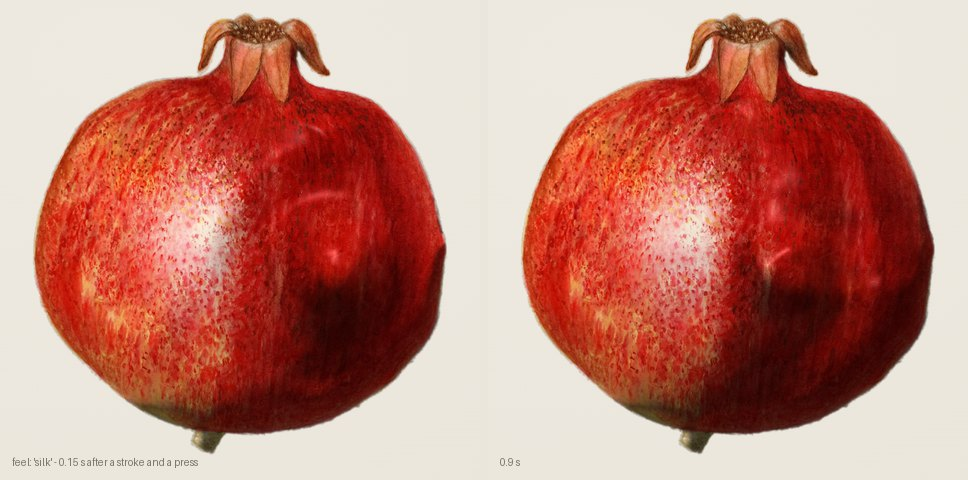
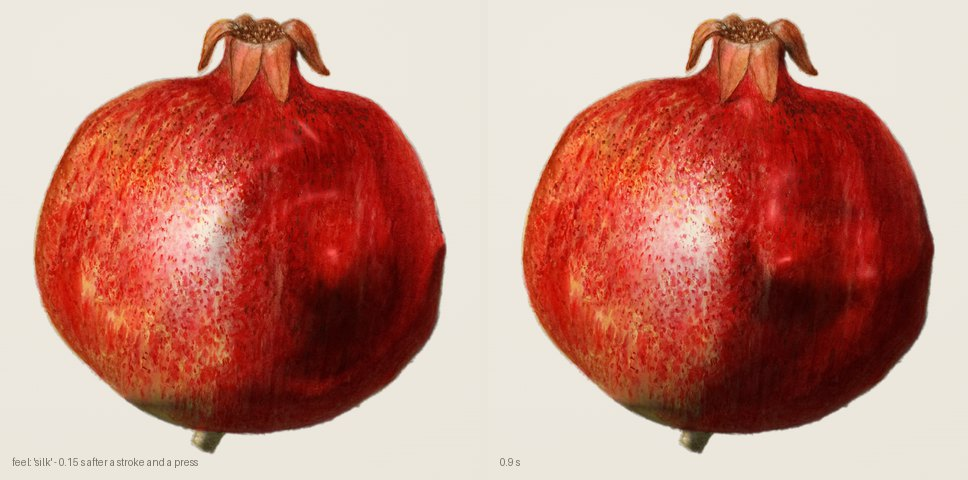
Presets: every material reads as itself before anyone touches it
foil, velvet and paper looked like the default at rest; satin and ink only
differed once touched. The test for a material is now its rest state.

- Three new options, all off by default (the classic look is bit-for-bit
  unchanged, checked pixel by pixel against the previous commit):
  metallic tints the highlight with the body's own hue and takes diffuse
  light from the silk part; threads is a fixed relief of fine striations
  along anisotropyAngle that only the highlight sees, so it breaks into
  streaks along the threads even at rest; grainScale sets device pixels per
  grain speck, and grain above 1 now adds contrast.
- foil: metal at rest, a body-coloured band of streaks. velvet: dark body,
  edges glowing in their own colour. paper: no sheen, flat warm frontal
  light, coarse tooth. satin: silkRest 0.6, a broad sheen band at rest.
  ink: deeper floor, so the far side falls into hard shadow.
- shoot.mjs --lab also writes material-rest-strip.jpg, all seven untouched.
- Pomegranate-foil poster re-rendered; the other nine are untouched.

diff --git a/src/shaders.js b/src/shaders.js
@@ -8,7 +8,11 @@
  *                         (ripple(), autoplay) and the breeze's drifting noise mixed in
  *   OBJ_VERT / OBJ_FRAG   the object: height field → displacement and normals → albedo × Lommel–Seeliger ×
  *                         light colour → fill-light gradient → satin and sheen gated by ripple energy (or
- *                         silkRest), the sheen optionally anisotropic and iridescent → Fresnel rim
+ *                         silkRest), the sheen optionally anisotropic, iridescent, metallic (tinted by the body)
+ *                         and streaked by a fixed thread relief (threads) → Fresnel rim
+ *
+ * The thread relief and the metallic tint only touch the silk layer (the sheen sees a perturbed normal Ns; the
+ * matte photograph and the satin overlay keep N), so a material can read as foil at rest without the picture itself going noisy.
  *
  * Every uniform here is set by core.js (`apply()` for options, `tick()` for per-frame state). Each optional term
  * sits behind `if (uniform > 0.0)`, so with the defaults the output is bit-for-bit the classic look.
@@ -99,7 +103,7 @@ export const OBJ_FRAG = /* glsl */ `
   uniform vec3 uSatinDir, uSunDir, uVolDir, uTint, uLightColor, uSheenColor, uRimColor;
   uniform vec2 uAnisoDir;          // (cos, sin) of the thread direction in the tangent plane
   uniform float uRipple, uSlope, uSatin, uFloor, uExposure, uGamma, uVolume, uSheen, uSheenPow, uTintMix, uGrainAmt, uGrainSize;
-  uniform float uAnisotropy, uRim, uRimPower, uRimSelf, uIridescence, uSilkRest, uSilkSpread;
+  uniform float uAnisotropy, uRim, uRimPower, uRimSelf, uIridescence, uSilkRest, uSilkSpread, uThreads, uMetallic;
 #ifdef SPHERE
   uniform sampler2D uBump;
   uniform float uAngle, uBumpTexel, uBumpStrength;
@@ -109,6 +113,12 @@ export const OBJ_FRAG = /* glsl */ `
   float blendOverlay(float b, float s) { return b < 0.5 ? (2.0 * b * s) : (1.0 - 2.0 * (1.0 - b) * (1.0 - s)); }
   vec3 blendOverlay(vec3 b, vec3 s) { return vec3(blendOverlay(b.r, s.r), blendOverlay(b.g, s.g), blendOverlay(b.b, s.b)); }
   vec3 hue(float h) { return clamp(abs(fract(h + vec3(0.0, 2.0 / 3.0, 1.0 / 3.0)) * 6.0 - 3.0) - 1.0, 0.0, 1.0); }
+  float hash(vec2 p) { return fract(sin(dot(p, vec2(127.1, 311.7))) * 43758.5453); }
+  float vnoise(vec2 p) {
+    vec2 i = floor(p), f = fract(p);
+    f = f * f * (3.0 - 2.0 * f);
+    return mix(mix(hash(i), hash(i + vec2(1.0, 0.0)), f.x), mix(hash(i + vec2(0.0, 1.0)), hash(i + 1.0), f.x), f.y);
+  }
 
   void main() {
   #ifdef SPHERE
@@ -164,25 +174,43 @@ export const OBJ_FRAG = /* glsl */ `
     float silkLit = silk * dayT;
     float satin = mix(0.5, max(dot(N, uSatinDir), 0.0), 0.45);
     col = mix(col, blendOverlay(col, vec3(satin)), silkLit * uSatin);
-    float spec = pow(max(dot(viewDir, reflect(-uSatinDir, N)), 0.0), uSheenPow);
+    // the thread direction in view space. Image: the tangent plane is xy. Sphere: the texture's u direction,
+    // (n.z, 0, −n.x) for a sphere about the view-space y axis
+  #ifdef SPHERE
+    vec3 tu = normalize(vec3(geoN.z, 0.0, -geoN.x) + vec3(1e-4, 0.0, 0.0));
+    vec3 t0 = tu * uAnisoDir.x + cross(geoN, tu) * uAnisoDir.y;
+    vec2 tuv = vec2(auv.x * 2.0, auv.y);                 // the map is 2:1, so its threads are square on the sphere
+  #else
+    vec3 t0 = vec3(uAnisoDir, 0.0);
+    vec2 tuv = vUv;
+  #endif
+    // the normal the silk layer sees; threads give it a fixed relief of fine striations running along the
+    // thread direction, so the highlight breaks into streaks along them even where nothing ripples (brushed foil)
+    vec3 Ns = N;
+    if (uThreads > 0.0) {
+      vec2 st = vec2(dot(tuv, vec2(-uAnisoDir.y, uAnisoDir.x)) * 300.0, dot(tuv, uAnisoDir) * 10.0);
+      float n0 = vnoise(st) + 0.5 * vnoise(st * vec2(2.7, 1.9) + 17.0);
+      float n1 = vnoise(st + vec2(0.35, 0.0)) + 0.5 * vnoise((st + vec2(0.35, 0.0)) * vec2(2.7, 1.9) + 17.0);
+      Ns = normalize(N + cross(geoN, t0) * (n1 - n0) * 1.8 * uThreads);
+    }
+    float spec = pow(max(dot(viewDir, reflect(-uSatinDir, Ns)), 0.0), uSheenPow);
     if (uAnisotropy > 0.0) {
-      // Kajiya–Kay: the highlight stretches across the threads. Image: the tangent plane is xy.
-      // Sphere: the texture's u direction, (n.z, 0, −n.x) for a sphere about the view-space y axis
-    #ifdef SPHERE
-      vec3 tu = normalize(vec3(geoN.z, 0.0, -geoN.x) + vec3(1e-4, 0.0, 0.0));
-      vec3 t0 = tu * uAnisoDir.x + cross(geoN, tu) * uAnisoDir.y;
-    #else
-      vec3 t0 = vec3(uAnisoDir, 0.0);
-    #endif
-      vec3 T = normalize(t0 - N * dot(N, t0) + vec3(0.0, 0.0, 1e-5));
+      // Kajiya–Kay: the highlight stretches across the threads
+      vec3 T = normalize(t0 - Ns * dot(Ns, t0) + vec3(0.0, 0.0, 1e-5));
       float th = dot(T, normalize(uSatinDir + viewDir));
       spec = mix(spec, pow(sqrt(max(1.0 - th * th, 0.0)), uSheenPow), uAnisotropy);
     }
     vec3 sheenColor = uSheenColor;
     if (uIridescence > 0.0) {
       // the highlight's hue turns with the viewing angle and the ripple height, like shot silk
-      float nv = max(dot(N, viewDir), 0.0);
+      float nv = max(dot(Ns, viewDir), 0.0);
       sheenColor = mix(sheenColor, 0.35 + 0.65 * hue(0.55 + 1.3 * (1.0 - nv) + 2.5 * data.r), uIridescence);
+    }
+    if (uMetallic > 0.0) {
+      // metal: the highlight takes the body's own hue, and the silk part of the body gives up its diffuse light
+      vec3 own = albedo / max(max(albedo.r, max(albedo.g, albedo.b)), 0.04);
+      sheenColor = mix(sheenColor, sheenColor * own, uMetallic);
+      col *= 1.0 - 0.55 * uMetallic * silkLit;
     }
     col += uSheen * spec * silkLit * sheenColor;
     if (uRim > 0.0) {

diff --git a/src/presets.js b/src/presets.js
@@ -10,19 +10,28 @@
  * every value was tuned there against the gallery's pictures until each preset reads differently at a glance
  * (`node scripts/shoot.mjs --lab` renders one picture per preset into docs/shots/lab/).
  *
- * Two departures from a literal recipe: velvet's rim takes the picture's own colour (rimColor: null), because a
- * white rim reads as fog on a coloured object; ink keeps the ink-drop card's raking light and grain but not its
- * exposure 2.2, which only suits a near-black albedo (the card itself is `material: 'ink'` + albedo + exposure).
+ * The test for a material is its rest state: untouched, it must already read as what it is.
+ *   satin   most of it is silk at rest (silkRest 0.6): a broad pale band of sheen drawn out across the threads
+ *   foil    silk everywhere (silkRest 1), the highlight tinted by the body (metallic) and broken into streaks by a
+ *           fixed thread relief (threads), stretched across the threads (anisotropy)
+ *   velvet  a dark body (low exposure and floor) whose edges glow in its own colour (rim, rimColor: null), because
+ *           a white rim reads as fog on a coloured object
+ *   paper   no sheen at all, flat frontal light in a warm tone, coarse grain (grain above 1, grainScale 2)
+ *   ink     the ink-drop card's raking light and grain, with a deeper floor so the far side falls into hard shadow;
+ *           not its exposure 2.2, which only suits a near-black albedo (that card sets albedo and exposure itself)
  */
 
 export const MATERIALS = {
   silk: {},
-  satin: { sheen: 0.55, sheenPower: 9, anisotropy: 0.6 },
-  velvet: { floor: 0.3, sheen: 0.04, rim: 0.5, rimPower: 2.2, rimColor: null, silkRest: 0.15 },
+  satin: { sheen: 0.7, sheenPower: 9, anisotropy: 0.6, silkRest: 0.6 },
+  velvet: { exposure: 0.55, floor: 0.15, volume: 0.4, sheen: 0.04, rim: 1.1, rimPower: 1.9, rimColor: null, silkRest: 0.15 },
   wet: { sheen: 1.1, sheenPower: 40, rim: 0.2, silkSpread: 1.6, silkRest: 0.35 },
-  foil: { silkRest: 1, anisotropy: 0.8, iridescence: 0.5, grain: 0.3 },
-  paper: { sheen: 0.06, satin: 0.35, grain: 0.9, displace: 0.14, floor: 0.7, volume: 0.15 },
-  ink: { grain: 1, light: [-0.66, 0.72, 0.2], exposure: 1.35, floor: 0.42, volume: 0.3, sheen: 0.5, sheenPower: 14 },
+  foil: { silkRest: 1, metallic: 0.85, threads: 0.6, anisotropy: 1, sheen: 1.2, sheenPower: 18, iridescence: 0.25, grain: 0.3 },
+  paper: {
+    sheen: 0, satin: 0.35, grain: 1.3, grainScale: 2, displace: 0.14, floor: 0.95, volume: 0.05,
+    light: [-0.2, 0.3, 0.93], lightColor: [1, 0.97, 0.9], gamma: 0.8, exposure: 1.1,
+  },
+  ink: { grain: 1, light: [-0.66, 0.72, 0.2], exposure: 1.35, floor: 0.2, volume: 0.5, sheen: 0.5, sheenPower: 14 },
 };
 
 export const FEELS = {

diff --git a/src/core.js b/src/core.js
@@ -213,7 +213,7 @@ export function createSilk(THREE, opened, assets, o, tier, init) {
     uDisplace: { value: o.displace },
     uLightColor: { value: new THREE.Vector3(1, 1, 1) }, uSheenColor: { value: new THREE.Vector3() }, uRimColor: { value: new THREE.Vector3() },
     uAnisoDir: { value: new THREE.Vector2(1, 0) }, uAnisotropy: { value: 0 }, uRim: { value: 0 }, uRimPower: { value: 3 }, uRimSelf: { value: 0 },
-    uIridescence: { value: 0 }, uSilkRest: { value: 0 }, uSilkSpread: { value: 1 },
+    uIridescence: { value: 0 }, uSilkRest: { value: 0 }, uSilkSpread: { value: 1 }, uThreads: { value: 0 }, uMetallic: { value: 0 },
     uBump: { value: bumpTex || flat }, uAngle: { value: o.angle || 0 }, uBumpTexel: { value: bumpTexel }, uBumpStrength: { value: 0 },
   };
   const objMat = own(new THREE.RawShaderMaterial({
@@ -251,12 +251,12 @@ export function createSilk(THREE, opened, assets, o, tier, init) {
     U.uDisplace.value = o.displace;
     U.uTintMix.value = o.albedo ? 1 : 0;
     if (o.albedo) U.uTint.value.fromArray(o.albedo);
-    U.uGrainAmt.value = o.grain > 0 ? Math.min(1, o.grain) : 0;
+    U.uGrainAmt.value = o.grain > 0 ? Math.min(2, o.grain) : 0;        // above 1 the specks only gain contrast
     if (o.grain > 0 && !grainTex) {
       grainTex = own(grainTexture(THREE, tier.grain));
       U.uGrain.value = grainTex;
-      U.uGrainSize.value = tier.grain;
     }
+    if (grainTex) U.uGrainSize.value = tier.grain * Math.max(1, o.grainScale);   // grainScale device px per speck
     U.uLightColor.value.fromArray(o.lightColor);
     U.uSheenColor.value.fromArray(o.sheenColor);
     U.uSatinDir.value.copy(vec3(o.satinLight));
@@ -269,6 +269,8 @@ export function createSilk(THREE, opened, assets, o, tier, init) {
     U.uIridescence.value = o.iridescence;
     U.uSilkRest.value = o.silkRest;
     U.uSilkSpread.value = o.silkSpread;
+    U.uThreads.value = o.threads;
+    U.uMetallic.value = o.metallic;
     U.uBumpStrength.value = bumpTex ? o.bumpStrength : 0;
     const su = simMat.uniforms;
     su.uWaveSpeed.value = o.waveSpeed * (ratio / STEPS) ** 2;

diff --git a/examples/lab.html b/examples/lab.html
@@ -161,8 +161,8 @@
     ]],
     ['Material', [
       ['sheen', 'n', 0, 1.5, 0.01], ['sheenPower', 'n', 2, 80, 1], ['sheenColor', 'c'], ['satin', 'n', 0, 1.5, 0.01],
-      ['albedo', 'c', true], ['grain', 'n', 0, 1, 0.01], ['gamma', 'n', 0.5, 1.6, 0.01], ['exposure', 'n', 0.2, 3, 0.01],
-      ['anisotropy', 'n', 0, 1, 0.01], ['anisotropyAngle', 'n', -3.1416, 3.1416, 0.01],
+      ['albedo', 'c', true], ['grain', 'n', 0, 2, 0.01], ['grainScale', 'n', 1, 4, 0.1], ['gamma', 'n', 0.5, 1.6, 0.01], ['exposure', 'n', 0.2, 3, 0.01],
+      ['metallic', 'n', 0, 1, 0.01], ['anisotropy', 'n', 0, 1, 0.01], ['anisotropyAngle', 'n', -3.1416, 3.1416, 0.01], ['threads', 'n', 0, 1.5, 0.01],
       ['rim', 'n', 0, 1, 0.01], ['rimPower', 'n', 0.5, 8, 0.1], ['rimColor', 'c', true],
       ['iridescence', 'n', 0, 1, 0.01], ['silkRest', 'n', 0, 1, 0.01], ['silkSpread', 'n', 0.2, 4, 0.05],
     ]],
@@ -178,7 +178,7 @@
     ]],
     ['Runtime', [['interactive', 'b'], ['tier', 's', ['auto', 'high', 'low', 'static']], ['worker', 's', ['auto', false]]]],
   ];
-  const IMAGE_ONLY = new Set(['puff', 'matte', 'corner', 'threshold', 'fit', 'albedo', 'grain']);
+  const IMAGE_ONLY = new Set(['puff', 'matte', 'corner', 'threshold', 'fit', 'albedo', 'grain', 'grainScale']);
   const SPHERE_ONLY = new Set(['phase', 'bumpStrength', 'spin', 'spinSpeed', 'angle']);
   const REBUILD = new Set(['shape', 'puff', 'matte', 'corner', 'threshold', 'fit', 'angle', 'tier', 'worker']);
   const MATERIAL_KEYS = keysOf(MATERIALS), FEEL_KEYS = keysOf(FEELS);

diff --git a/src/silk.js b/src/silk.js
@@ -36,6 +36,7 @@ const COMMON = {
   // material dimensions: every default leaves the classic look untouched
   lightColor: [1, 1, 1], sheenColor: [0.9, 0.95, 1], satinLight: [0.5, 0.6, 0.45],
   anisotropy: 0, anisotropyAngle: 0, rim: 0, rimPower: 3, rimColor: [1, 1, 1], iridescence: 0, silkRest: 0, silkSpread: 1,
+  threads: 0, metallic: 0, grainScale: 1,
   // motion that does not wait for a pointer: off by default, because both keep the loop awake
   autoplay: false,         // true | { interval: 2500, depth: 0.3, radius } — a drop at a random point every interval ms
   breeze: 0,               // 0–1: a slow noise field keeps the surface faintly alive (30 fps while visible)

diff --git a/examples/index.html b/examples/index.html
@@ -129,7 +129,7 @@
       },
       /* presets (src/presets.js): one word for a material, one for how it moves; tune them in lab.html */
       {
-        id: 'pomegranate-foil', title: 'Pomegranate, foil', note: 'The same fruit, material: foil. Silk all over at rest, the highlight drawn out along the threads and shifting hue.',
+        id: 'pomegranate-foil', title: 'Pomegranate, foil', note: 'The same fruit, material: foil. Metal before you touch it: a band of red light made of streaks along the threads.',
         options: { image: 'images/pomegranate.webp', material: 'foil' },
       },
       {

diff --git a/SKILL.md b/SKILL.md
@@ -152,12 +152,15 @@ All parameters are optional except `image`. Defaults marked *sphere / image* dif
 | `sheenPower` | 22 / 16 | Highlight exponent; lower is broader | 12–24 |
 | `satin` | 0.9 | Overlay of the satin term at full ripple energy | |
 | `albedo` | `null` | `null` uses the picture's colours; `[r, g, b]` (0–1) paints a flat colour, which suits one-colour logos | |
-| `grain` | 0 | Procedural fine grain, one texel per device pixel (0–1) | 1 for ink or paper logos |
+| `grain` | 0 | Procedural fine grain (0–1; up to 2 only adds contrast) | 1 for ink or paper logos |
+| `grainScale` | 1 | Device pixels per grain speck | 2 for paper tooth |
 | `gamma` | 1 | `albedo = pow(albedo, gamma)`; below 1 lifts mid-tones | 0.85–1.15 |
 | `exposure` | 1 | Overall brightness of the lit face | |
 | `sheenColor` | `[0.9, 0.95, 1]` | Colour of the highlight | warm `[1, 0.85, 0.6]` for gold |
+| `metallic` | 0 | Metal: the highlight takes the body's own hue and the silk part of the body loses its diffuse light | 0.85 foil |
 | `anisotropy` | 0 | Highlight stretched across the threads (Kajiya–Kay): 0 round, 1 fully anisotropic | 0.6 satin, 0.8 foil |
 | `anisotropyAngle` | 0 | Thread direction in radians (image: in the picture's plane; sphere: along the map's u) | |
+| `threads` | 0 | A fixed relief of fine striations along `anisotropyAngle`, seen only by the highlight: it breaks into streaks along the threads even at rest | 0.6 foil; 0.2–0.4 woven satin |
 | `rim` | 0 | Fresnel edge light, strongest where the surface turns away | 0.2 wet, 0.5 velvet |
 | `rimPower` | 3 | Rim falloff; lower is wider | 2–4 |
 | `rimColor` | `[1, 1, 1]` | Rim colour; `null` takes the picture's own colour, lifted (velvet pile) | |
@@ -204,17 +207,17 @@ All parameters are optional except `image`. Defaults marked *sphere / image* dif
 | Painting or poster | `puff: 'cushion'`, `floor: 0.6`, `sheen: 0.25` (opaque PNG ⇒ rectangle) |
 | The moon on a light page | `shape: 'sphere', bump, phase: 0.38, floor: 0.6, bumpStrength: 7` |
 
-**Presets.** `material` and `feel` set many options at once; anything you also write explicitly wins. Pictures of each are in `docs/shots/lab/`.
+**Presets.** `material` and `feel` set many options at once; anything you also write explicitly wins. Pictures of each are in `docs/shots/lab/`; `material-rest-strip.jpg` shows all seven untouched. A material must read as itself before anyone touches it.
 
 | `material` | Sets | Reads as |
 |---|---|---|
 | `'silk'` | nothing | the classic look: matte photograph, silk where touched |
-| `'satin'` | `sheen: 0.55, sheenPower: 9, anisotropy: 0.6` | broad pale highlights drawn out along the threads |
-| `'velvet'` | `floor: 0.3, sheen: 0.04, rim: 0.5, rimPower: 2.2, rimColor: null, silkRest: 0.15` | deep body, edges glowing in their own colour, almost no shine |
+| `'satin'` | `sheen: 0.7, sheenPower: 9, anisotropy: 0.6, silkRest: 0.6` | a broad pale band of sheen even at rest, drawn out across the threads |
+| `'velvet'` | `exposure: 0.55, floor: 0.15, volume: 0.4, sheen: 0.04, rim: 1.1, rimPower: 1.9, rimColor: null, silkRest: 0.15` | a dark body whose edges glow in its own colour, no shine |
 | `'wet'` | `sheen: 1.1, sheenPower: 40, rim: 0.2, silkSpread: 1.6, silkRest: 0.35` | a gloss even at rest; touched, sharp white glints |
-| `'foil'` | `silkRest: 1, anisotropy: 0.8, iridescence: 0.5, grain: 0.3` | metallic all over, the highlight streaked and shifting hue |
-| `'paper'` | `sheen: 0.06, satin: 0.35, grain: 0.9, displace: 0.14, floor: 0.7, volume: 0.15` | flat, grainy, dents without shine |
-| `'ink'` | the ink-drop card without `albedo` and with `exposure: 1.35` | raking light, grain, hard shadow |
+| `'foil'` | `silkRest: 1, metallic: 0.85, threads: 0.6, anisotropy: 1, sheen: 1.2, sheenPower: 18, iridescence: 0.25, grain: 0.3` | metal at rest: a body-coloured highlight band made of streaks along the threads |
+| `'paper'` | `sheen: 0, satin: 0.35, grain: 1.3, grainScale: 2, displace: 0.14, floor: 0.95, volume: 0.05, light: [-0.2, 0.3, 0.93], lightColor: [1, 0.97, 0.9], gamma: 0.8, exposure: 1.1` | flat, warm and toothy, no gloss anywhere; dents without shine |
+| `'ink'` | the ink-drop card's light and grain, `exposure: 1.35, floor: 0.2, volume: 0.5`, no `albedo` | raking light, grain, the far side in hard shadow |
 
 | `feel` | Sets | Moves like |
 |---|---|---|

diff --git a/README.zh-CN.md b/README.zh-CN.md
@@ -72,7 +72,7 @@ silk.dispose();
 |---|---|
 | 预设 | `material`（`'silk'`）· `feel`（`'silk'`） |
 | 涟漪 | `pressDepth` 0.30（凹坑深度）· `pressDepthHold` 0.60（按住时）· `pressRadius` 0.075（半径）· `waveSpeed` 1.6（波速）· `damping` 0.996（阻尼）· `displace` 0.32（位移）· `ripple` 62（涟漪对法线的扰动） |
-| 材质 | `sheen` 球体 0.18 / 图片 0.3（高光）· `sheenPower` 22 / 16 · `sheenColor` `[0.9,0.95,1]`（高光颜色）· `satin` 0.9（缎面）· `albedo` null 或 `[r,g,b]`（反照率）· `grain` 0（颗粒）· `gamma` 1 · `exposure` 1（曝光）· `anisotropy` 0（各向异性）· `anisotropyAngle` 0（丝线方向）· `rim` 0（轮廓光）· `rimPower` 3 · `rimColor` `[1,1,1]` 或 null（取图片本色）· `iridescence` 0（虹彩）· `silkRest` 0（静止时的丝绸程度）· `silkSpread` 1（丝绸扩散范围） |
+| 材质 | `sheen` 球体 0.18 / 图片 0.3（高光）· `sheenPower` 22 / 16 · `sheenColor` `[0.9,0.95,1]`（高光颜色）· `satin` 0.9（缎面）· `albedo` null 或 `[r,g,b]`（反照率）· `grain` 0（颗粒）· `grainScale` 1（颗粒尺寸）· `gamma` 1 · `exposure` 1（曝光）· `metallic` 0（金属感）· `anisotropy` 0（各向异性）· `anisotropyAngle` 0（丝线方向）· `threads` 0（丝线纹理）· `rim` 0（轮廓光）· `rimPower` 3 · `rimColor` `[1,1,1]` 或 null（取图片本色）· `iridescence` 0（虹彩）· `silkRest` 0（静止时的丝绸程度）· `silkSpread` 1（丝绸扩散范围） |
 | 光 | `light`（视空间主光方向）· `lightColor` `[1,1,1]`（主光颜色）· `satinLight` `[0.5,0.6,0.45]`（缎面与高光的光向）· `floor` 0.05 / 0.55（背光处亮度地板）· `volume` 0.28（体积感梯度）· `fillLight` true（补光跟随指针）· `idleSweep` true（闲置扫光） |
 | 动作 | `autoplay` false 或 `{ interval, depth, radius }`（定时自动落一滴）· `breeze` 0（微风）· `handle.ripple(x, y)`（程序化触碰一次） |
 | 形状（图片） | `puff` `'dome'` / `'cushion'` / `'flat'` / 数值（体量档位）· `matte` `'auto'` / `'alpha'` / `'rect'` · `corner` 0.06 · `threshold` 0.5 · `fit` 1.3 |

diff --git a/README.md b/README.md
@@ -72,7 +72,7 @@ Two words cover most looks: `material` (`'silk'`, `'satin'`, `'velvet'`, `'wet'`
 |---|---|
 | Presets | `material` (`'silk'`) · `feel` (`'silk'`) |
 | Ripple | `pressDepth` 0.30 · `pressDepthHold` 0.60 · `pressRadius` 0.075 · `waveSpeed` 1.6 · `damping` 0.996 · `displace` 0.32 · `ripple` 62 |
-| Material | `sheen` 0.18 sphere / 0.3 image · `sheenPower` 22 / 16 · `sheenColor` `[0.9,0.95,1]` · `satin` 0.9 · `albedo` null or `[r,g,b]` · `grain` 0 · `gamma` 1 · `exposure` 1 · `anisotropy` 0 · `anisotropyAngle` 0 · `rim` 0 · `rimPower` 3 · `rimColor` `[1,1,1]` or null · `iridescence` 0 · `silkRest` 0 · `silkSpread` 1 |
+| Material | `sheen` 0.18 sphere / 0.3 image · `sheenPower` 22 / 16 · `sheenColor` `[0.9,0.95,1]` · `satin` 0.9 · `albedo` null or `[r,g,b]` · `grain` 0 · `grainScale` 1 · `gamma` 1 · `exposure` 1 · `metallic` 0 · `anisotropy` 0 · `anisotropyAngle` 0 · `threads` 0 · `rim` 0 · `rimPower` 3 · `rimColor` `[1,1,1]` or null · `iridescence` 0 · `silkRest` 0 · `silkSpread` 1 |
 | Light | `light` (view-space key light) · `lightColor` `[1,1,1]` · `satinLight` `[0.5,0.6,0.45]` · `floor` 0.05 / 0.55 · `volume` 0.28 · `fillLight` true · `idleSweep` true |
 | Motion | `autoplay` false or `{ interval, depth, radius }` · `breeze` 0 · `handle.ripple(x, y)` |
 | Shape (image) | `puff` `'dome'` / `'cushion'` / `'flat'` / a number · `matte` `'auto'` / `'alpha'` / `'rect'` · `corner` 0.06 · `threshold` 0.5 · `fit` 1.3 |
